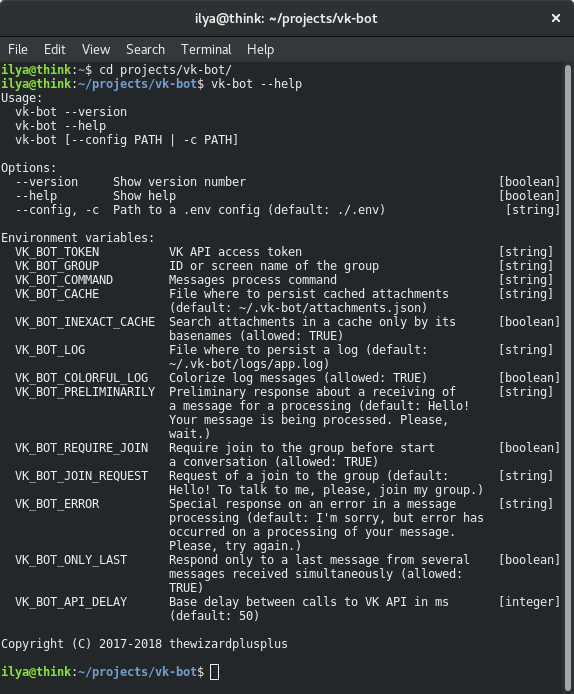
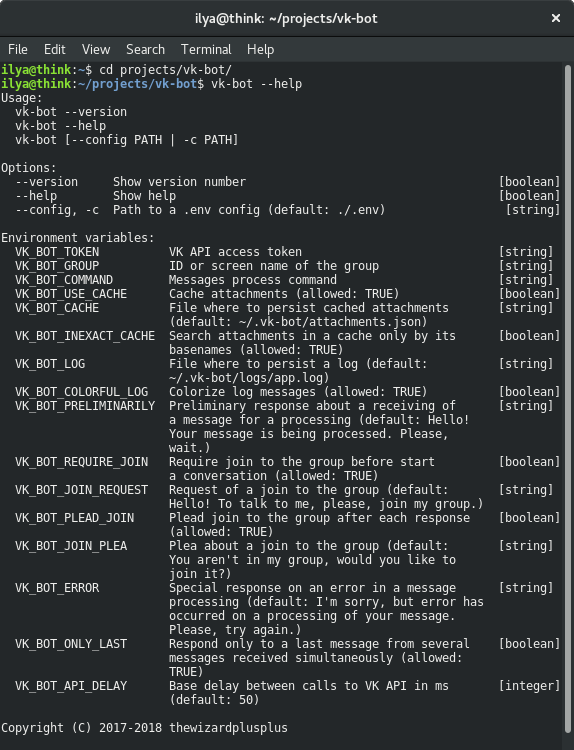
Update screenshots

diff --git a/README.md b/README.md
@@ -139,9 +139,13 @@ Messages processing
 
 Conversation with the bot
 
-![Request of a join to the group](screenshots/screenshot_03.png)
+![Request of a join to the group](screenshots/screenshot_03.00.png)
 
 Request of a join to the group
+
+![Plea about a join to the group](screenshots/screenshot_03.01.png)
+
+Plea about a join to the group
 
 ![Error in a message processing](screenshots/screenshot_04.png)
 
